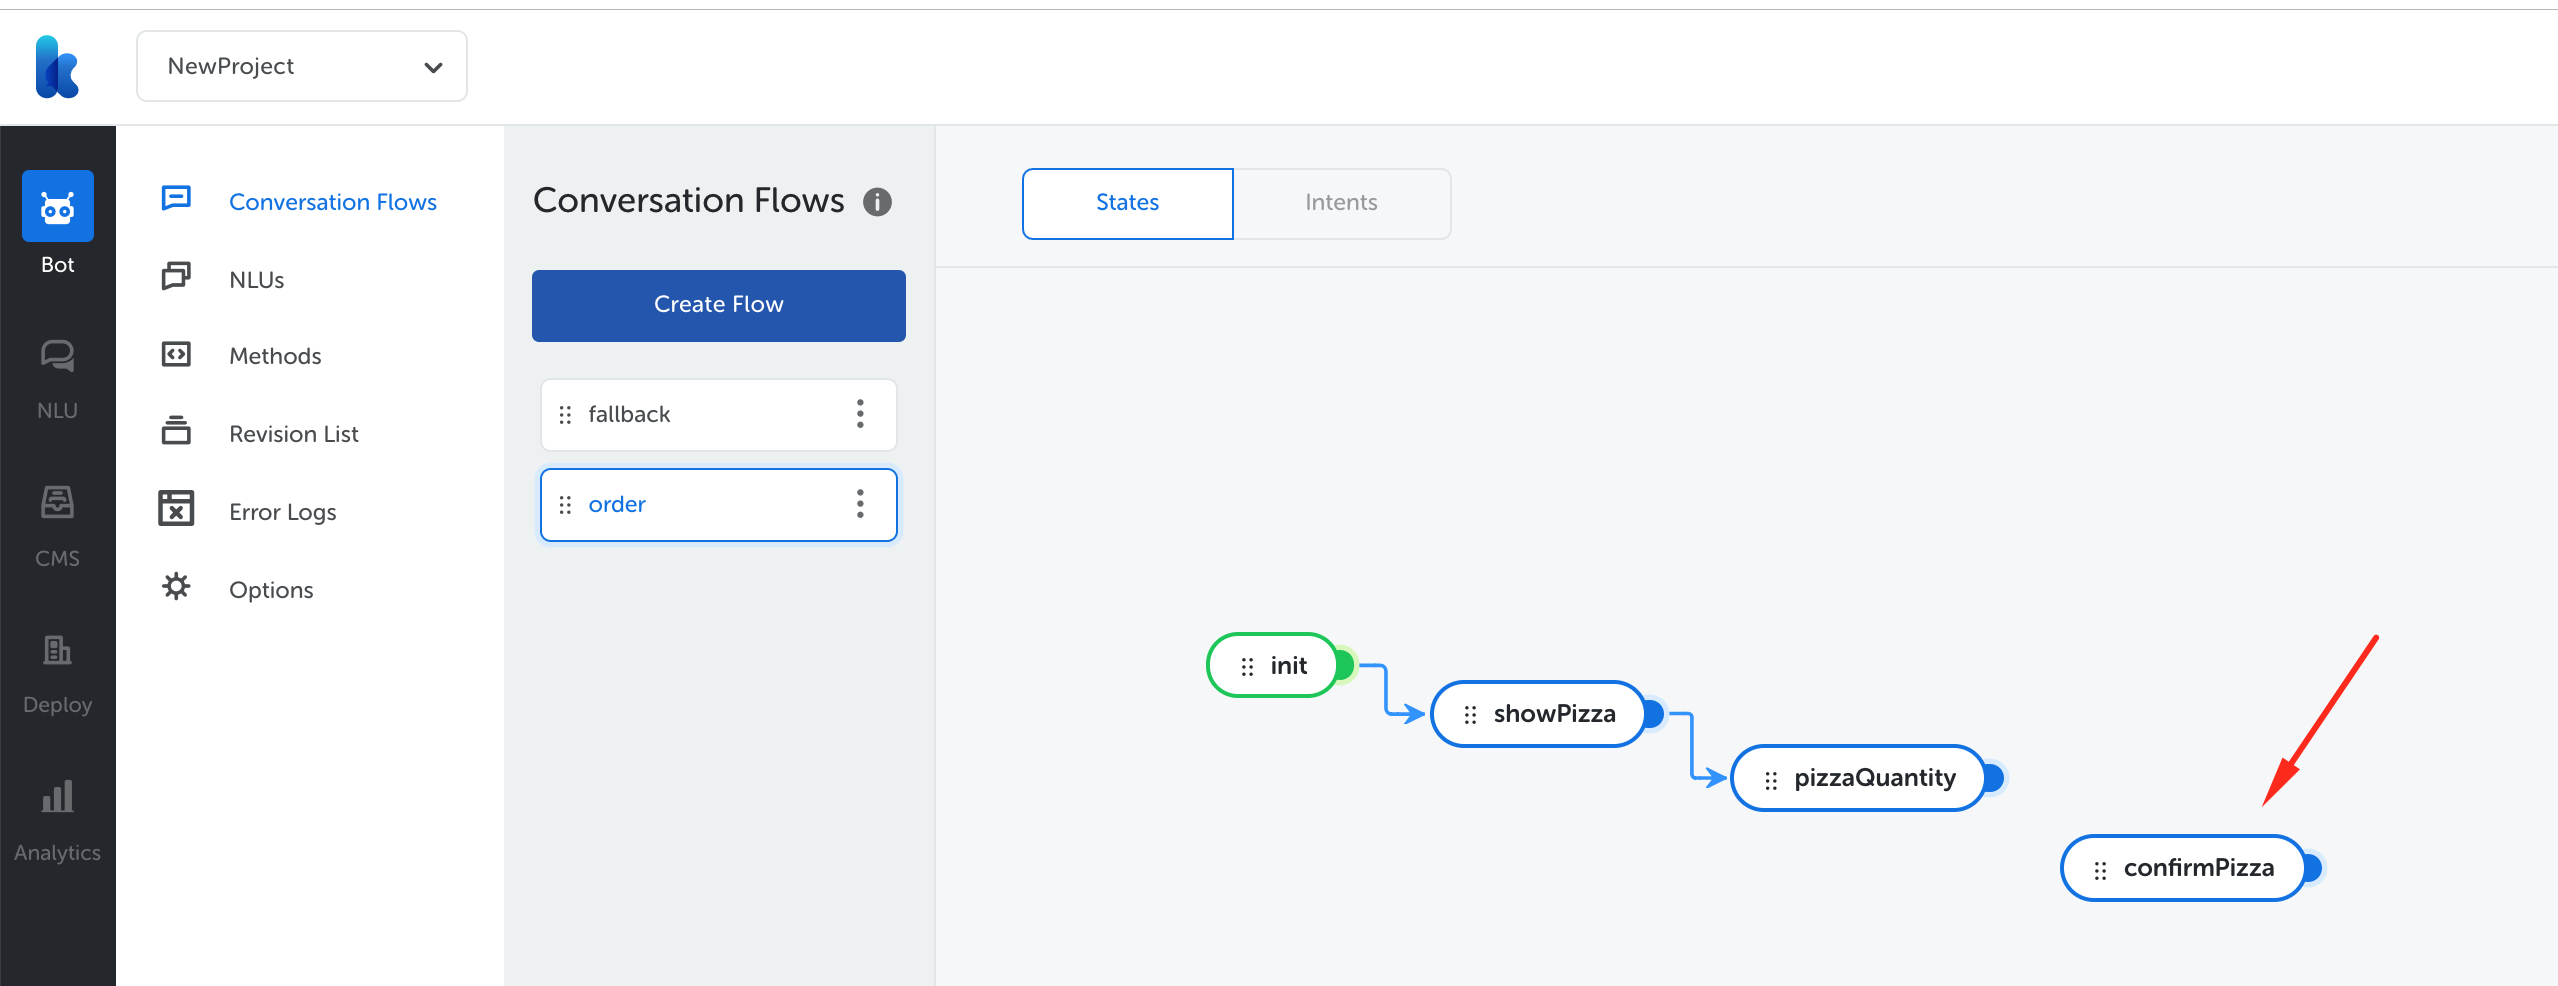
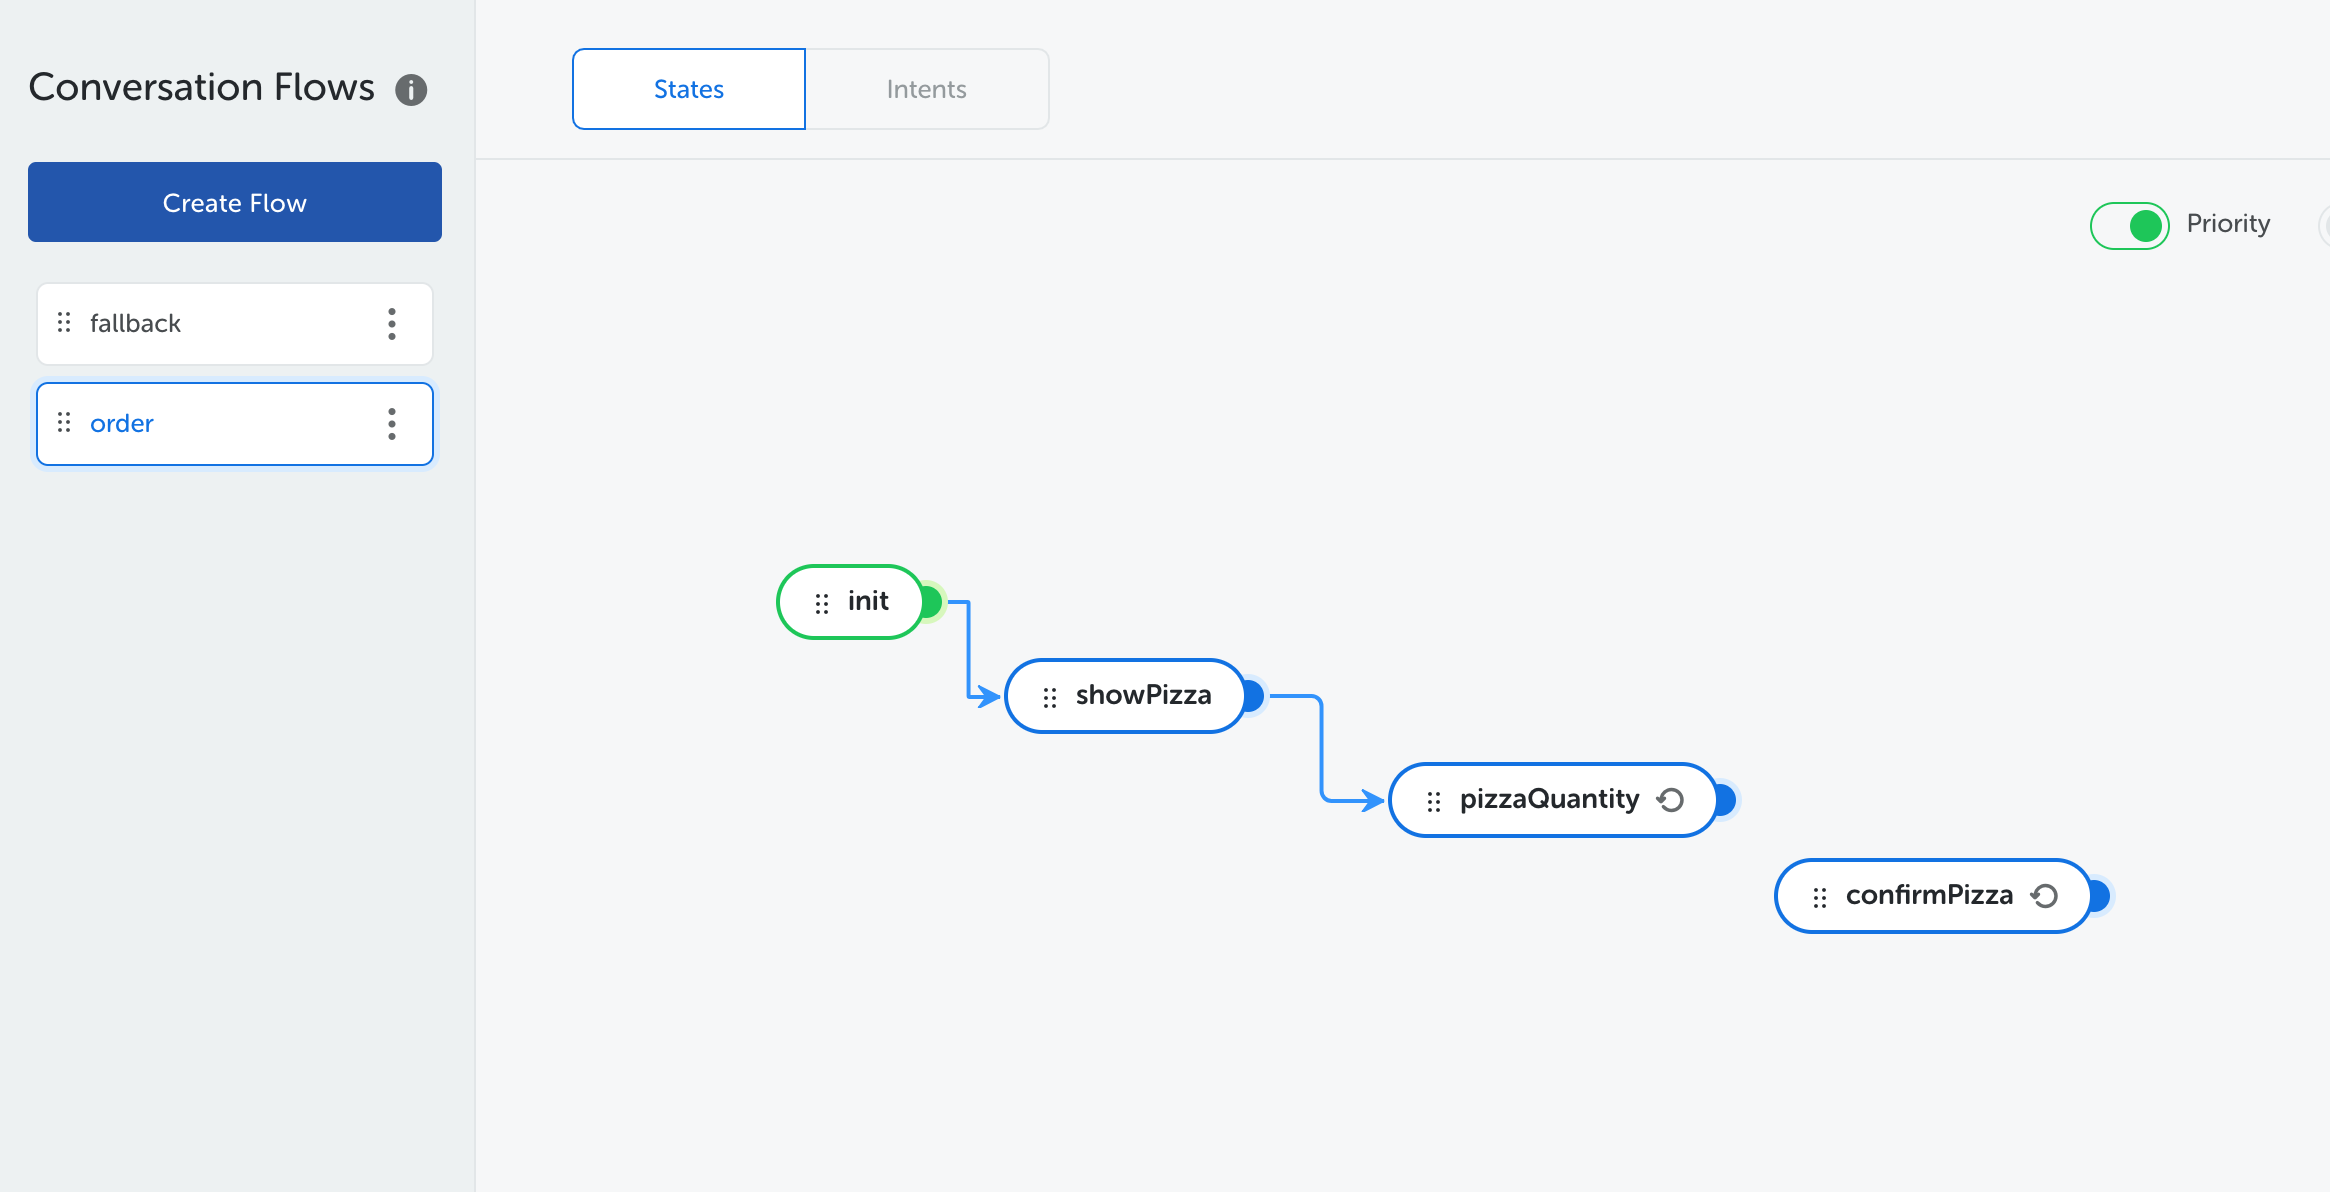
docs:  update tutorial bot studio

diff --git a/docs/tutorial/bot-studio.md b/docs/tutorial/bot-studio.md
@@ -212,6 +212,9 @@ Click on “Create Action” to finalize. Next step is to create an action calle
 Click on “Create Action” button. Your form should look like this
 ![bse-37](/images/tutorial/bot-studio/bse-37.png)
 
+Then you have to make self-transition in Transition tab as follow
+![bse-37-1](/images/tutorial/bot-studio/bse-37-1.png)
+
 Click “Create” to create the state. Successfully created state will look like this
 ![bse-38](/images/tutorial/bot-studio/bse-38.png)
 
@@ -220,8 +223,11 @@ Click “Create” to create the state. Successfully created state will look lik
 Previous step is an example to create action to **show pizza menu in text.** Let's try to update the state into Carousel action type.
 
 To update the state, click on `showPizza` state and an update state form will appear
-![bse-39](/images/tutorial/bot-studio/bse-39.png)Then, remove all actions in the state by clicking “x” on each action.
+![bse-39](/images/tutorial/bot-studio/bse-39.png)
+
+Then, remove all actions in the state by clicking “x” on each action.
 ![bse-40](/images/tutorial/bot-studio/bse-40.png)
+
 After removing available actions, we will create an action called `pizzaMenu` as Carousel action type.
 
 Click on “Add” actions button then click on “+” button to create a new action. Choose Carousel action type to continue.
@@ -302,9 +308,10 @@ Successfully created intent looks like this
 Now, we will create a transition between two states that we have created before.
 
 Click the green dot on `init` state, and a connector line will appear. Connect that line to `showPizza` state. If you do it right, a Create Transition form will appear.
-
 ![bse-52](/images/tutorial/bot-studio/bse-52.png)
+
 Fill in the form with these data, and click “Create”
+![bse-52-1](/images/tutorial/bot-studio/bse-52-1.png)
 
 ### Create 'reenter' intent
 
@@ -368,19 +375,20 @@ Successfully created NLU will look like this
 
 ### Create confirmPizza state
 
-Now we will create `confirmPizza` state to handle order confirmation. We will also store chosen pizza & quantity information in this state. Select `order` flow and click on “+” button to create `confirmPizza` state .
+Now we will create `confirmPizza` state to handle order confirmation. We will also store chosen pizza & quantity information in this state. Select `order` flow and click on “+” button to create `confirmPizza` state.
 ![bse-64](/images/tutorial/bot-studio/bse-64.png)
 
-Click Create Action. Your screen should look like this
+## Add mapping in onTransit tab
+
+![bse-67](/images/tutorial/bot-studio/bse-67.png)
+
+Don't forget to add self-transition in a state. Click Create Action. Your screen should look like this
 ![bse-65](/images/tutorial/bot-studio/bse-65.png)
 
 ### Create a transition from pizzaQuantity to confirmPizza
 
 We will make a transition by storing value (mapping) from pizza quantity **and** chosen pizza type. Click the blue dot on `pizzaQuantity` and drag the line to `confirmPizza` state to create a transition. Create Transition form will appear after you successfully connected the states.
 ![bse-66](/images/tutorial/bot-studio/bse-66.png)
-
-Add mapping in onTransit tab
-![bse-67](/images/tutorial/bot-studio/bse-67.png)
 
 Result will be shown as follows
 ![bse-68](/images/tutorial/bot-studio/bse-68.png)
